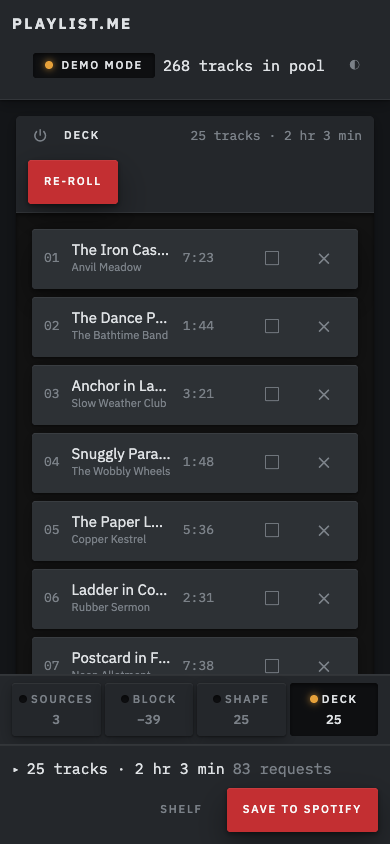
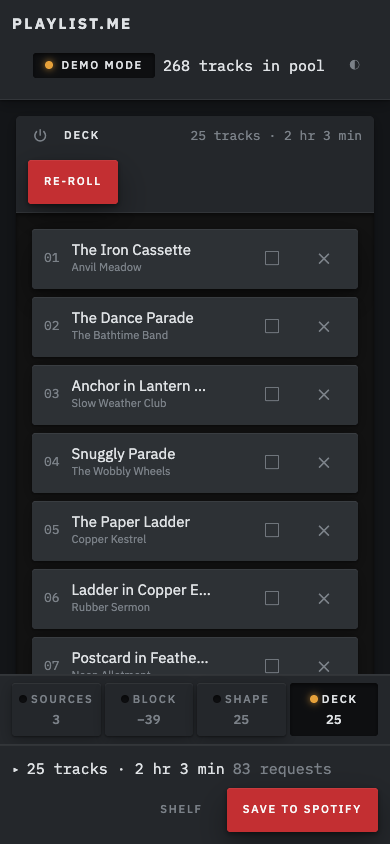
Give phone deck titles a second line instead of an early ellipsis

diff --git a/apps/web/e2e/phone.spec.ts b/apps/web/e2e/phone.spec.ts
@@ -172,6 +172,80 @@ test('a change made in SHAPE is visible on the DECK one press later', async ({ p
   await expect(page.locator('.slot__title')).toHaveCount(1);
 });
 
+/**
+ * Four things do not fit on 334px of slot. The two 44px targets are WCAG 2.5.8 and telling
+ * one track from another is the deck's whole job, so the per-track running time is what goes
+ * — the one of the four with a second home, in the ledger two rows below.
+ */
+test('a track’s running time leaves the page on a phone', async ({ page }) => {
+  await page.goto('/');
+  await addFirstSource(page);
+
+  // Clipped to a pixel rather than removed, which is what keeps it for a screen reader —
+  // and which Playwright still calls "visible", so the box is what has to be read.
+  const box = await page.locator('.slot__time').first().boundingBox();
+  expect(box?.width ?? 0).toBeLessThanOrEqual(1);
+});
+
+test('that number stays in the document for a screen reader', async ({ page }) => {
+  await page.goto('/');
+  await addFirstSource(page);
+
+  await expect(page.locator('.slot__time').first()).toHaveText(/^\d+:\d\d$/);
+});
+
+test('the running time comes back above the threshold', async ({ page }) => {
+  await page.goto('/');
+  await addFirstSource(page);
+  await page.setViewportSize({ width: 1280, height: 900 });
+
+  await expect(page.locator('.slot__time').first()).toBeVisible();
+});
+
+/**
+ * The defect this guards is **clipping early**, not clipping at all.
+ *
+ * "The Iron Cas…" at thirteen characters was the bug: two tracks an album apart became
+ * indistinguishable. A thirty-eight character title losing its last few to an ellipsis is not —
+ * by then the distinguishing part has long since read. So the invariant is that a title spends
+ * its whole allowance before giving up: anything clipped must be using both of its lines,
+ * never one.
+ *
+ * The assertion is vertical, not horizontal. A wrapped title always reports
+ * `scrollWidth === clientWidth`, so width would pass no matter how badly it clipped.
+ */
+test('a clipped title has spent both its lines first', async ({ page }) => {
+  await page.goto('/');
+  await addFirstSource(page);
+
+  const gaveUpEarly = await page.locator('.slot__title').evaluateAll((titles) =>
+    titles
+      .filter((title) => title.scrollHeight > title.clientHeight + 1)
+      .filter((title) => {
+        const leading = Number.parseFloat(getComputedStyle(title).lineHeight);
+        return Math.round(title.clientHeight / leading) < 2;
+      })
+      .map((title) => title.textContent),
+  );
+
+  expect(gaveUpEarly).toEqual([]);
+});
+
+test('a title takes at most two lines, so the row stays scannable', async ({ page }) => {
+  await page.goto('/');
+  await addFirstSource(page);
+
+  const tallest = await page.locator('.slot__title').evaluateAll((titles) => {
+    const lines = titles.map((title) => {
+      const leading = Number.parseFloat(getComputedStyle(title).lineHeight);
+      return Math.round(title.clientHeight / leading);
+    });
+    return Math.max(...lines);
+  });
+
+  expect(tallest).toBeLessThanOrEqual(2);
+});
+
 test('the deck keeps building while it is off screen', async ({ page }) => {
   await page.goto('/');
   await addFirstSource(page);

diff --git a/apps/web/src/styles/globals.css b/apps/web/src/styles/globals.css
@@ -156,8 +156,19 @@ h4 {
   color: var(--ink-muted);
 }
 
-/* Visible to a screen reader, gone from the page. A glyph-only control keeps its name. §7 */
-.visually-hidden {
+/**
+ * Visible to a screen reader, gone from the page. A glyph-only control keeps its name. §7
+ *
+ * The second selector is that rule applied to a **measurement** rather than to a label, and
+ * it is the one place on the phone where something visible is deliberately given up: a track's
+ * own running time. Four things cannot share 334px — the two 44px targets are WCAG 2.5.8 and
+ * not tradeable, and telling one track from another is the entire job of the deck, so the
+ * duration is what goes. It is the only one of the four with a second home: the ledger carries
+ * the deck's running time permanently, two rows below (§7). The number leaves the page and
+ * stays in the document, which is what makes this a hiding rather than a deletion.
+ */
+.visually-hidden,
+:root[data-collapsed='true'] .slot__time {
   position: absolute;
   width: 1px;
   height: 1px;
@@ -166,6 +177,26 @@ h4 {
   overflow: hidden;
   clip-path: inset(50%);
   white-space: nowrap;
+}
+
+/**
+ * On a phone a long title takes a second line rather than an ellipsis.
+ *
+ * Reclaiming the duration bought 32px and left the longest compound titles still clipped —
+ * "Lighthouse in Hollow Orchard" wants 198px and has 142. The remaining budget was the lamp's
+ * reserved width, and spending that would let a locked slot shove its neighbours, which §14
+ * forbids by name. So the row grows instead.
+ *
+ * Clamped at two lines, not unbounded: the growth is capped, the artist line stays put, and a
+ * title long enough to need a third line is rare enough to ellipse. Telling one track from
+ * another is the deck's entire job, and a ragged row is a smaller cost than an ambiguous one.
+ */
+:root[data-collapsed='true'] .slot__title {
+  white-space: normal;
+  display: -webkit-box;
+  -webkit-box-orient: vertical;
+  -webkit-line-clamp: 2;
+  line-clamp: 2;
 }
 
 /* ---------------------------------------------------------------------------

diff --git a/apps/web/test/surface.test.ts b/apps/web/test/surface.test.ts
@@ -293,6 +293,29 @@ describe('the paged frame', () => {
     expect(declarationsFor(".key[aria-selected='true']")).not.toMatch(/var\(--accent/);
   });
 
+  /**
+   * The one thing the phone gives up, and the terms it gives it up on: the number leaves the
+   * page and stays in the document. A `display: none` here would be a deletion, and the
+   * deck's own running time in the ledger is what makes the trade payable at all.
+   */
+  it('takes a track’s running time off the page below the threshold', () => {
+    expect(declarationsFor(":root[data-collapsed='true'] .slot__time")).toMatch(
+      /clip-path:\s*inset\(50%\)/,
+    );
+  });
+
+  it('never removes that number from the document', () => {
+    expect(declarationsFor(":root[data-collapsed='true'] .slot__time")).not.toMatch(
+      /display:\s*none/,
+    );
+  });
+
+  it('hides it with the one treatment rather than a copy of it', () => {
+    expect(declarationsFor(":root[data-collapsed='true'] .slot__time")).toBe(
+      declarationsFor('.visually-hidden'),
+    );
+  });
+
   it('transitions a section change at the house duration', () => {
     expect(declarationsFor(":root[data-collapsed='true'] .panel[data-selected='true']")).toMatch(
       /animation:\s*section-in var\(--duration-base\)/,
